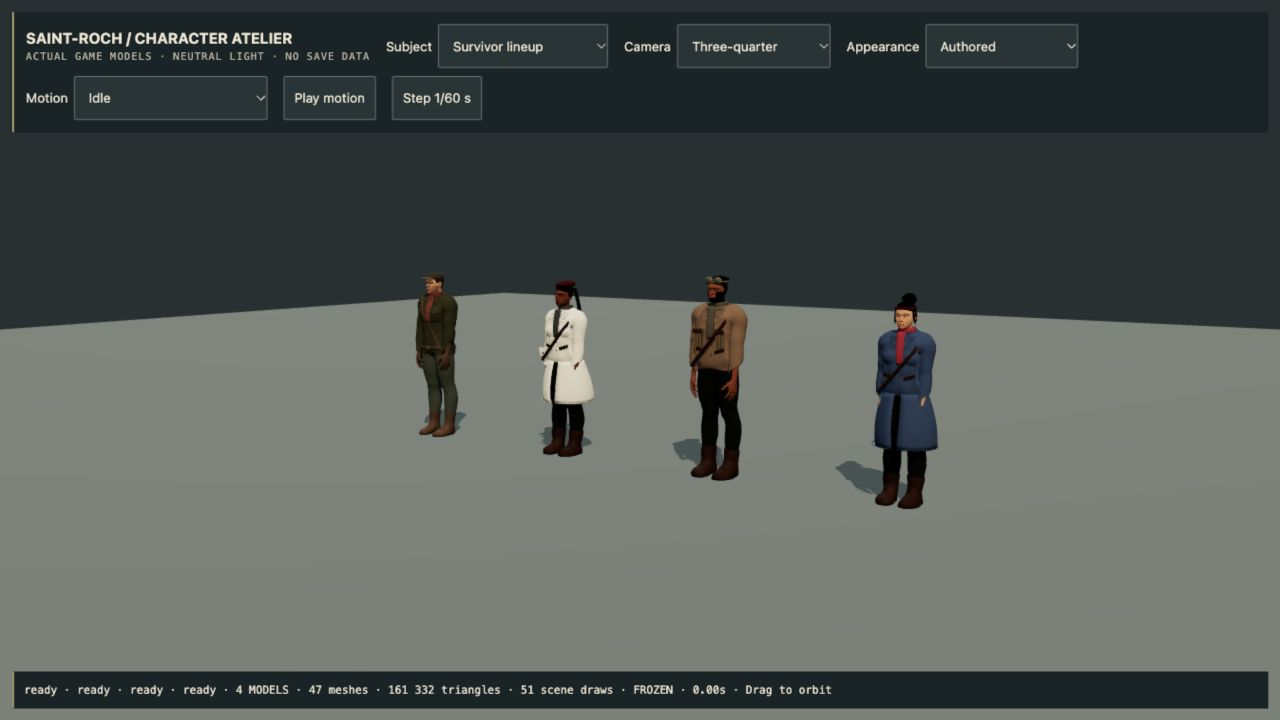
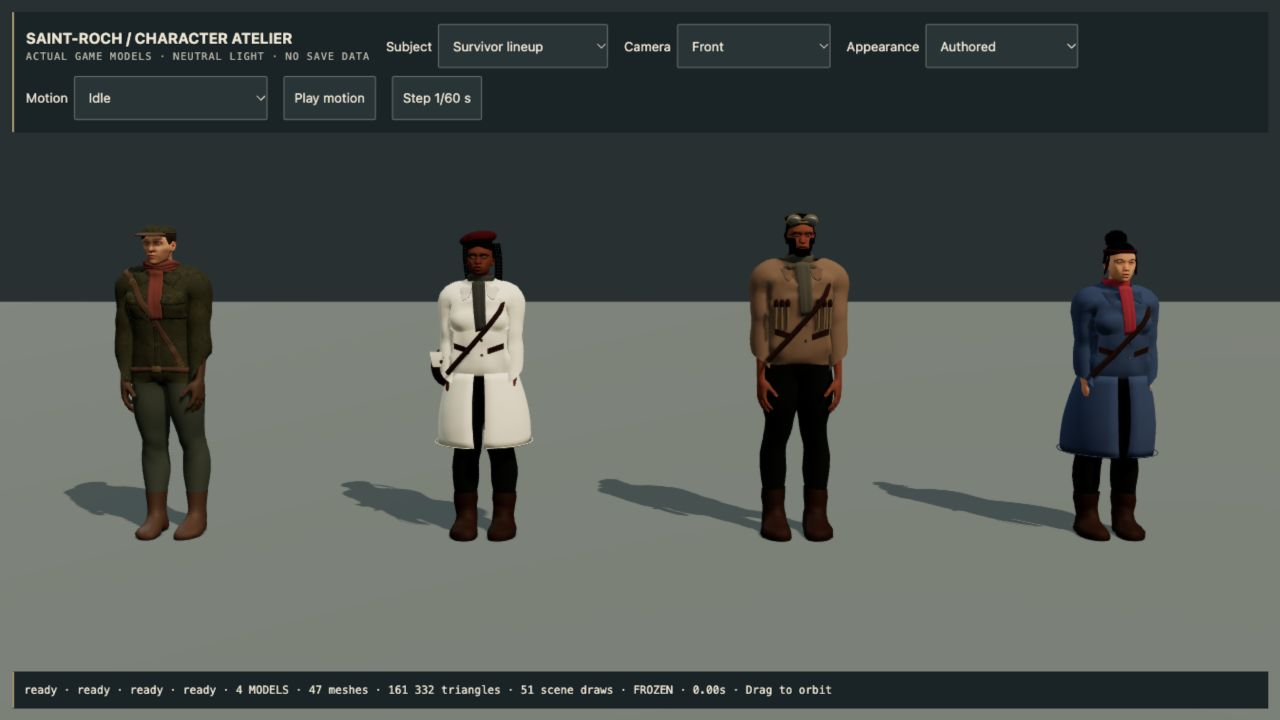
Record cast release verification and packaged Mac evidence

diff --git a/docs/RELEASE-4.51.0.md b/docs/RELEASE-4.51.0.md
@@ -60,8 +60,9 @@ inputs, hashes and CC0 attribution accompany the assets in `assets/source/cast`.
 ## Validation
 
 **622 gameplay regressions and 89 actual-model art checks pass.** The production
-build passes with the existing JavaScript chunk-size warning. macOS package and
-publication evidence are recorded below once complete.
+build passes with the existing JavaScript chunk-size warning. The exact Mac package also passed ad-hoc signature validation and hardware
+startup: offline world, shaders, menu and desktop bridge initialized. This is
+startup evidence, not a sustained native gameplay benchmark.
 
 Live-browser review includes all four loaded identities; rifle, paired SMG/flame
 and katana first-person poses; armoured Saint walking and helmet hiding; Torque's
@@ -79,3 +80,26 @@ modular construction; faces do not yet have expression or dialogue animation.
 Physical phone/controller validation, sustained target-device performance and a
 normal full expedition remain separate QA gates. Apple notarization and Steam Deck
 work are still deferred.
+
+## macOS package
+
+`Zombie-Bagarre-4.51.0-macOS-arm64.zip`
+
[1 lines of base64/hex data omitted]
+
+Apple Silicon, ad-hoc signed, not Developer ID notarized. The locally built app
+is available in `release/4.51.0/Zombie Bagarre-darwin-arm64/`. Downloaded copies
+may be blocked by Gatekeeper; see [the Mac guide](MACOS.md).
+
+Runtime commit: `5af6fef10ad59937c0e02ac89fe89afea1e66137`.
+
+## Publication
+
+GitHub Pages workflow **38723532216** passed, including both test suites and the
+production build. The public title screen reports BUILD 4.51.0 and emitted no
+console errors during the check; [capture](qa/cast-revamp/public-menu.png).
+
+[macOS release v4.51.0](https://github.com/iamknow0ne/zombibagarre/releases/tag/v4.51.0)
+is published. GitHub reports the exact ZIP digest above, matching the locally
+hardware-startup-tested artifact. The tag-triggered Steam Deck job was cancelled
+because that platform remains deferred.

diff --git a/docs/NEXT-PASS.md b/docs/NEXT-PASS.md
@@ -9,7 +9,7 @@
 - [x] Refine all six infected with shared textured head anatomy, organic surfaces and projected wounds; refine exposed boss faces and plant-boss forms.
 - [x] Correct interior foot placement, overbright clothing dyes, eye seating and visible boss face occlusion.
 - [x] 622 gameplay regressions, 89 actual-model art checks, production build and rendered cast/equipment/FPS/interior/boss/crawler review.
-- [ ] Publish tested browser and ad-hoc macOS 4.51.0 and verify the exact downloadable archive.
+- [x] Publish browser and ad-hoc macOS 4.51.0: runtime 5af6fef, Pages 38723532216 passed, public BUILD 4.51.0 checked, uploaded ZIP digest matches the hardware-startup-tested archive.
 
 See [4.51.0 evidence](RELEASE-4.51.0.md). Default-cast integration is complete;
 custom garment variants remain stylized modular construction. Facial expression

diff --git a/docs/art-direction/CAST-REVAMP.md b/docs/art-direction/CAST-REVAMP.md
@@ -25,7 +25,7 @@ travel with the assets.
 - [x] Boss silhouettes and surface construction reviewed during actual attacks.
 - [x] Custom appearances, armour and traders retain their identities; unsupported
       customization must remain explicitly documented rather than silently lost.
-- [ ] Runtime regressions, actual browser review, production build and packaged
+- [x] Runtime regressions, actual browser review, production build and packaged
       Mac startup pass; publication checked against exact tested artifact.
 
 Physical phone/controller feel and sustained target-device benchmarks remain

diff --git a/docs/qa/cast-revamp/README.md b/docs/qa/cast-revamp/README.md
@@ -5,6 +5,7 @@ change character saves. These are actual browser captures, not concept art.
 
 | Capture | What was reviewed |
 | --- | --- |
+| public-menu.png | Published BUILD 4.51.0, no console errors |
 | hero-lineup.png | All four detailed default identities loaded |
 | saint-armour-walk.png / saint-hidden-helmet.png | Walking, armour, helmet visibility |
 | torque-custom-dual.png | Custom mohawk, corrected arctic dye, paired weapons |
